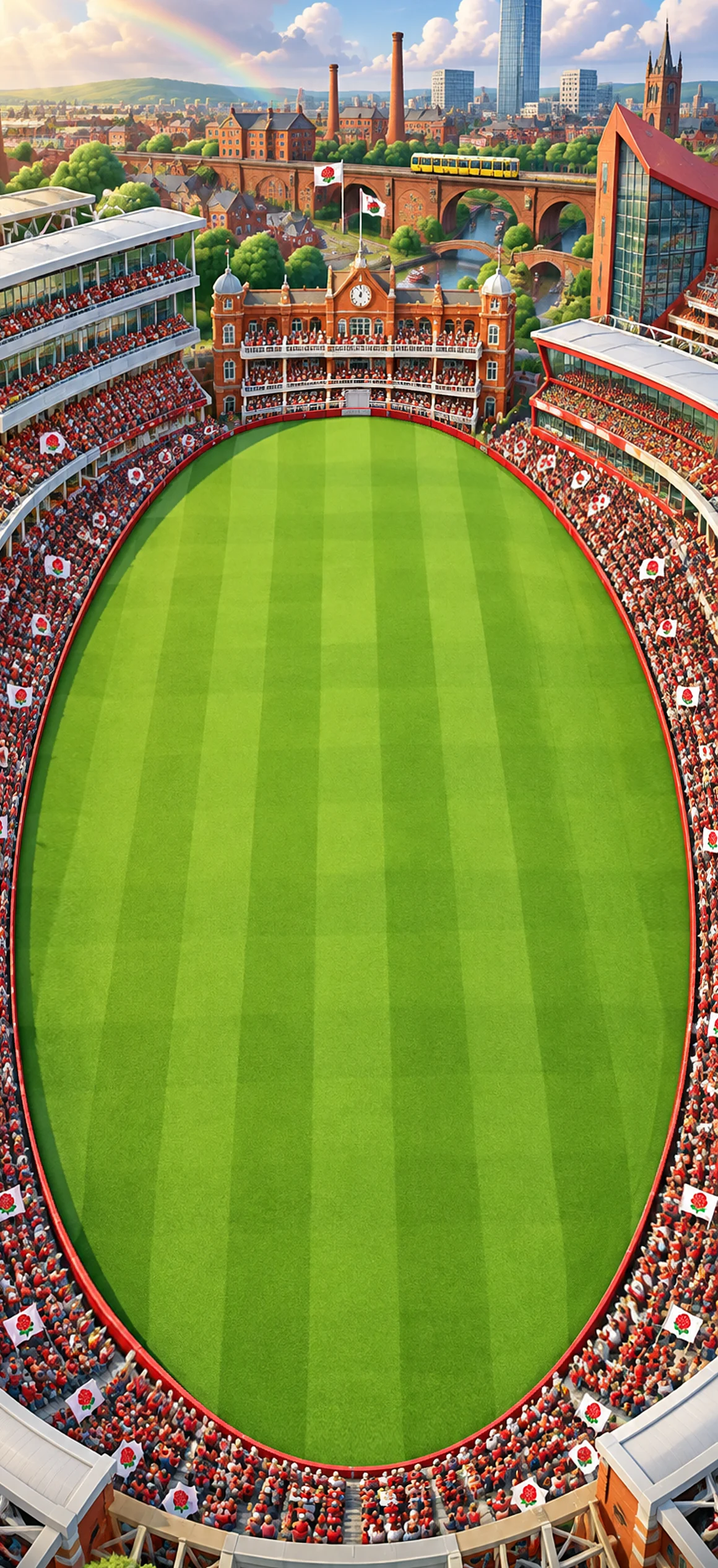
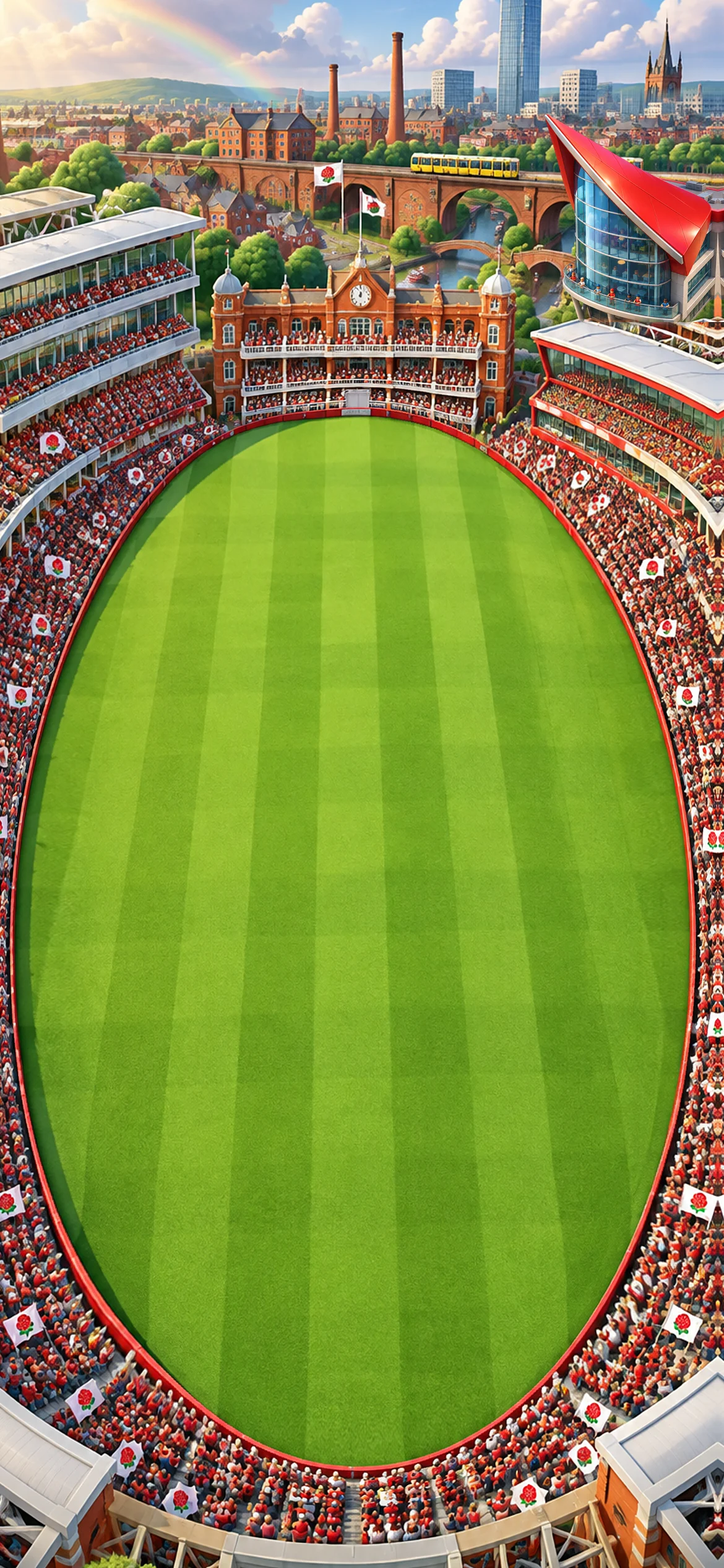
Old Trafford: new cartoon Point building
Claude-Session: https://claude.ai/code/session_01EnXvJ6P6HcGRxjBSnYPdAU

diff --git a/art/grounds/oldtrafford/point.py b/art/grounds/oldtrafford/point.py
@@ -1,0 +1,18 @@
+# Joe (Nov 2): the boxy red Point block on the right was terrible. A cartoon Point (Figma 419:191: red wedge roof rising to a
+# sharp point, curved glass, balcony) keyed off green and laid over the old block, its base tucked behind the right stand roof.
+import numpy as np, cv2, sys
+from PIL import Image
+im=np.array(Image.open('raw/point_419-191.png').convert('RGB')).astype(float)
+a=np.clip((np.sqrt(((im-[0,255,0])**2).sum(2))-45)/60,0,1); ex=np.clip(im[...,1]-np.maximum(im[...,0],im[...,2]),0,None); a=a*np.clip(1-ex/90,0,1)
+f=im.copy(); f[...,1]=np.minimum(f[...,1],np.maximum(f[...,0],f[...,2]))
+sp=Image.fromarray(np.dstack([f,cv2.erode((a*255).astype(np.uint8),np.ones((3,3),np.uint8))]).clip(0,255).astype(np.uint8)); sp=sp.crop(sp.getbbox())
+x0,yb,w,cut=[int(v) for v in sys.argv[1:5]]          # left edge, bottom line on the plate, width, rows trimmed off the sprite bottom (pillars)
+k=w/sp.width; sp=sp.resize((w,round(sp.height*k)),Image.LANCZOS); sp=sp.crop((0,0,sp.width,sp.height-cut))
+A=np.array(sp).astype(float); F=18; A[-F:,:,3]*=np.linspace(1,0,F)[:,None]; sp=Image.fromarray(A.astype(np.uint8))
+base=np.array(Image.open('plate_v1.png').convert('RGB')).astype(float)
+# clear the old block first: the viaduct, canal and houses beside it continued to the right (copied 200 px along), feathered
+X0,Y0,Y1,D,FF=940,140,520,200,30
+WW=base.shape[1]; src=base[Y0:Y1,X0-D:WW-D].copy(); h,w=src.shape[:2]
+wx=np.clip(np.arange(w)/FF,0,1)[None,:]; wy=np.clip(np.arange(h)/FF,0,1)[:,None]; wgt=(wx*wy)[...,None]
+base[Y0:Y1,X0:WW]=base[Y0:Y1,X0:WW]*(1-wgt)+src*wgt
+p=Image.fromarray(base.astype(np.uint8)).convert('RGBA'); p.alpha_composite(sp,(x0,yb-sp.height)); p.convert('RGB').save('plate.png'); print(sp.size,(x0,yb-sp.height))

diff --git a/art/grounds/ART_PACKAGE.md b/art/grounds/ART_PACKAGE.md
@@ -69,3 +69,4 @@ Board new pass: Figma 417:191 (green key, chunky red-brick pillars + gold caps, 
 ### 5.e Old Trafford (Nov 2) — built
 Plate Figma 418:195 (full PROMPTS.md template, Camera 4 FAR, light top-left; 418:191 rejected: field nearly full width + big near-end flags) → fit ratio 1.605 → build_clean (stretch 1.01) → snap_ring (max 29) → measure max 0.8 p90 0.4. Victorian pavilion + clock far end, pointed red Point building right, hotel stand left, red-rose flags round the ground, yellow tram on a brick viaduct, canal, mill chimneys, tall glass tower, rainbow.
 Board 418:192 (green key): red enamel + chrome frame, roses, worker bee, charcoal chrome-rimmed bands — composed onto the template by art/ui/hud_lock/compose_oldtrafford.py (also writes the red-rose pause). Props 418:193 (magenta) / words 418:194 (green) cut by art/grounds/oldtrafford/cut.py; fan sprite skipped (crest on shirt). Pitch ct 81 cb 728 wb 399. Extras: bees, rose flag. Scene th_oldtrafford.
+Nov 2 v2 (Joe: 'the Point red box is terrible'): cartoon Point building generated alone (Figma 419:191, green key: red wedge roof to a sharp point, curved glass, balcony) and laid over the old block by art/grounds/oldtrafford/point.py (old block cleared by continuing the viaduct/houses from 200 px left). Plate was 1160 wide out of build_clean — padded to 1170. v1 kept as plate_v1.png.
